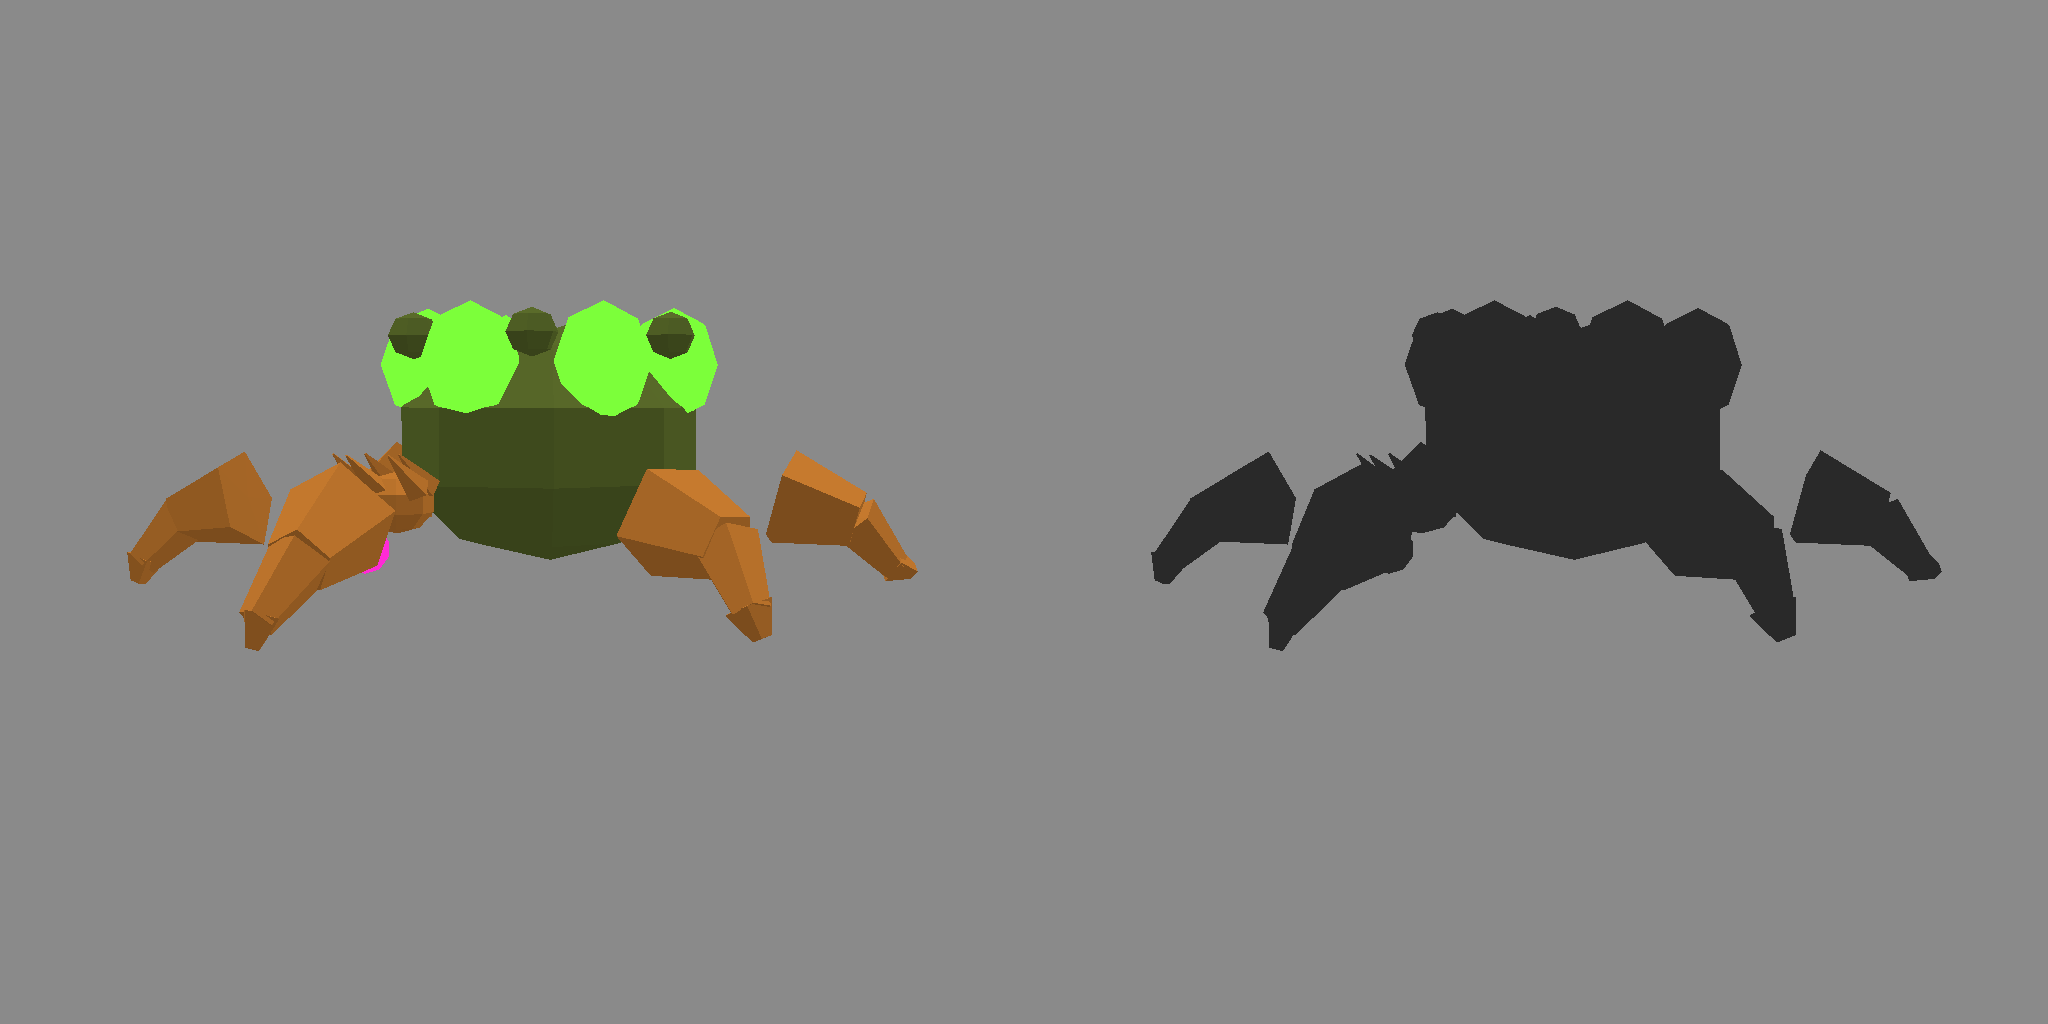
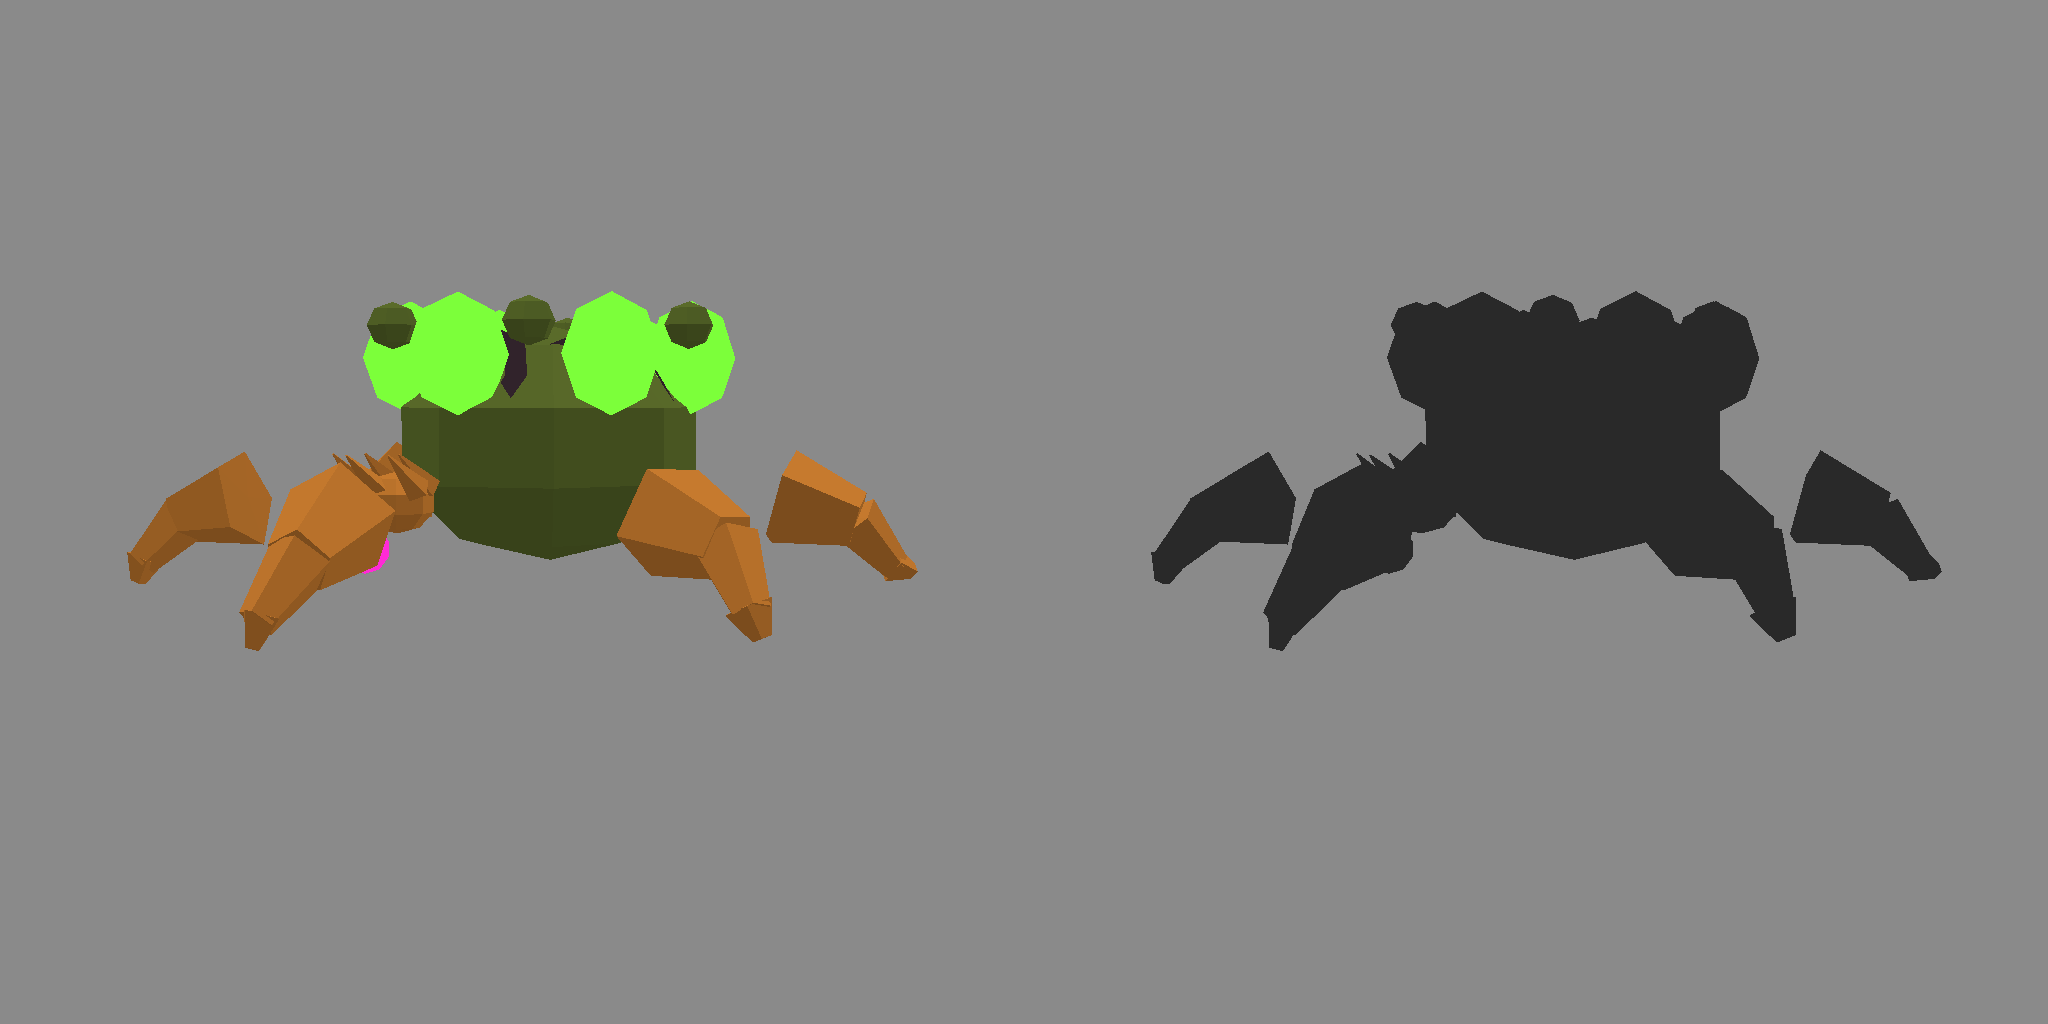
Seat each brood pod on its hitbox anchor and add a top-down still.
Six glowing pods and six visual buds alternate around the sac. The mesh test checks those counts and that each pod hitbox shares that pod's anchor. bugshots now writes brood_mother_top.png.

diff --git a/crates/meshes/src/lib.rs b/crates/meshes/src/lib.rs
@@ -8,8 +8,8 @@ mod visual;
 
 pub use pose::{pose, AnimInput, Pose, Xform};
 pub use preview::{
-    missing_glow_keys, missing_glow_keys_open, painted_pixels, raster, raster_bug, raster_crown, raster_viewmodel, still, still_open,
-    ViewmodelFrame,
+    missing_glow_keys, missing_glow_keys_open, painted_pixels, raster, raster_bug, raster_crown, raster_top, raster_viewmodel, still,
+    still_open, still_top, ViewmodelFrame,
 };
 pub use visual::{bug, catalog, flat_shaded, EnemyVisual, Gate, Joint, Part, ShotCamera};
 
@@ -591,6 +591,80 @@ mod tests {
         let a = bug("swarmer") as *const EnemyVisual;
         let b = bug("swarmer") as *const EnemyVisual;
         assert_eq!(a, b);
+    }
+
+    #[test]
+    fn brood_pods_alternate_with_buds_and_sit_on_hitboxes() {
+        let content = gemini_sim::Content::embedded();
+        let boss = content.boss("brood_mother").expect("brood mother");
+        let visual = bug("brood_mother");
+        let row = content.bug(gemini_sim::content::EnemyKind::BroodMother);
+        let glowing: Vec<_> = visual
+            .parts
+            .iter()
+            .filter(|part| part.emissive && part.name.starts_with("pod"))
+            .collect();
+        assert_eq!(
+            glowing.len() as u32, boss.pod_count,
+            "glowing pod parts must match bosses.toml pod_count"
+        );
+        let authored_buds = row
+            .visual
+            .parts
+            .iter()
+            .find(|part| part.name == "bud")
+            .expect("visual bud row")
+            .count;
+        let buds: Vec<_> = visual.parts.iter().filter(|part| part.name.starts_with("bud")).collect();
+        assert_eq!(buds.len() as u32, authored_buds, "bud parts must match the visual bud count");
+        assert!(buds.iter().all(|part| !part.emissive), "buds stay visual-only");
+
+        assert_eq!(row.hitbox.pods.len(), glowing.len());
+        for (i, place) in row.hitbox.pods.iter().enumerate() {
+            let part = visual
+                .parts
+                .iter()
+                .find(|part| part.name == format!("pod{i}"))
+                .unwrap_or_else(|| panic!("missing pod{i}"));
+            assert_eq!(part.pod_slot, Some(i as u32));
+            let anchor = part.rest_pos;
+            let hit = place.offset;
+            let d = ((anchor[0] - hit[0]).powi(2) + (anchor[1] - hit[1]).powi(2) + (anchor[2] - hit[2]).powi(2)).sqrt();
+            assert!(
+                d < 1e-3,
+                "pod{i} hitbox {hit:?} is off its mesh anchor {anchor:?} by {d}"
+            );
+        }
+
+        let sac = visual.parts.iter().find(|part| part.name == "sac").expect("sac").rest_pos;
+        let mut ring = Vec::new();
+        for part in visual.parts.iter() {
+            let live = part.emissive && part.name.starts_with("pod");
+            let bud = part.name.starts_with("bud");
+            if !live && !bud {
+                continue;
+            }
+            let dx = part.rest_pos[0] - sac[0];
+            let dz = part.rest_pos[2] - sac[2];
+            ring.push((dz.atan2(dx), live));
+        }
+        ring.sort_by(|a, b| a.0.partial_cmp(&b.0).unwrap());
+        assert_eq!(ring.len(), glowing.len() + buds.len());
+        for pair in ring.windows(2) {
+            assert_ne!(pair[0].1, pair[1].1, "pods and buds must alternate around the sac");
+            assert!(pair[1].0 - pair[0].0 > 0.2, "ring gap {}", pair[1].0 - pair[0].0);
+        }
+        assert_ne!(ring.first().unwrap().1, ring.last().unwrap().1);
+
+        let pod = visual.parts.iter().find(|part| part.name == "pod0").unwrap();
+        let mesh_r = mesh_radius(&pod.mesh);
+        let hit_r = row.hitbox.pod_radius();
+        assert!(
+            hit_r + 1e-3 >= mesh_r * content.bugs.hitbox_margin,
+            "pod hitbox {hit_r:.3} < mesh {mesh_r:.3} * {}",
+            content.bugs.hitbox_margin
+        );
+        eprintln!("pod mesh radius {mesh_r:.4} hitbox radius {hit_r:.4}");
     }
 
     #[test]

diff --git a/crates/meshes/src/visual.rs b/crates/meshes/src/visual.rs
@@ -304,7 +304,7 @@ fn req2(id: &str, part: &str, field: &str, value: Option<&[f32]>) -> Result<[f32
 
 fn add_body_part(parts: &mut Vec<Part>, id: &str, spec: &VPart, dens: &Dens, catalog: &[VPart]) -> Result<(), String> {
     match spec.part.as_str() {
-        "pod" | "bud" => return add_sac_orbs(parts, id, spec, dens),
+        "pod" | "bud" => return add_sac_orbs(parts, id, spec, dens, catalog),
         "crown" => return add_crown(parts, id, spec, dens),
         "cannon" => return add_cannon(parts, id, spec, dens, catalog),
         _ => {}
@@ -833,7 +833,7 @@ fn add_cannon(parts: &mut Vec<Part>, id: &str, spec: &VPart, dens: &Dens, catalo
     Ok(())
 }
 
-fn add_sac_orbs(parts: &mut Vec<Part>, id: &str, spec: &VPart, dens: &Dens) -> Result<(), String> {
+fn add_sac_orbs(parts: &mut Vec<Part>, id: &str, spec: &VPart, dens: &Dens, catalog: &[VPart]) -> Result<(), String> {
     let nestled = spec.part == "bud";
     if spec.ring_radius <= 0.0 {
         return Err(format!("{id} {} is missing ring_radius", spec.name));
@@ -863,7 +863,16 @@ fn add_sac_orbs(parts: &mut Vec<Part>, id: &str, spec: &VPart, dens: &Dens) -> R
         Dens { slices: 6, stacks: 4, ..Dens::small() }
     };
     let mesh = Arc::new(gem_mesh([size[0] * 0.5, size[1] * 0.5, size[2] * 0.5], &detail));
-    let (center, radii) = sac_anchor_from(id, parts)?;
+    // Same ellipsoid as the sim pod bake: authored host half-extents, not the
+    // faceted sac mesh. Pods and buds share that ring and alternate by phase.
+    let host_name = spec.on.as_deref().ok_or_else(|| format!("{id} {} is missing on", spec.name))?;
+    let host = catalog
+        .iter()
+        .find(|part| part.name == host_name)
+        .ok_or_else(|| format!("{id} {} host \"{host_name}\" is missing", spec.name))?;
+    let host_size = size3(id, host)?;
+    let radii = [host_size[0] * 0.5, host_size[1] * 0.5, host_size[2] * 0.5];
+    let center = host.offset;
     for i in 0..count {
         let a = (i as f32 + phase) / count as f32 * std::f32::consts::TAU + turn;
         let ring = spec.ring_radius;
@@ -1084,23 +1093,6 @@ fn add_veins(parts: &mut Vec<Part>, id: &str, spec: &VPart) -> Result<(), String
         });
     }
     Ok(())
-}
-
-fn sac_anchor_from(id: &str, parts: &[Part]) -> Result<([f32; 3], [f32; 3]), String> {
-    let sac = parts
-        .iter()
-        .find(|p| p.name == "sac")
-        .ok_or_else(|| format!("{id} pod ring has no sac"))?;
-    let mut max = [0.0_f32, 0.0, 0.0];
-    for p in &sac.mesh.positions {
-        max[0] = max[0].max(p[0].abs());
-        max[1] = max[1].max(p[1].abs());
-        max[2] = max[2].max(p[2].abs());
-    }
-    if max[0] <= 0.0 || max[1] <= 0.0 || max[2] <= 0.0 {
-        return Err(format!("{id} sac has no extent"));
-    }
-    Ok((sac.rest_pos, [max[0] * 0.92, max[1] * 0.92, max[2] * 0.92]))
 }
 
 /// Round shell. Dorsal plates are a sibling mesh so the open pose can spread them.

diff --git a/crates/meshes/src/preview.rs b/crates/meshes/src/preview.rs
@@ -58,6 +58,24 @@ pub fn still_open(id: &str, panel: u32) -> (u32, u32, Vec<u8>) {
     compose(id, panel, true, cam)
 }
 
+/// Overhead camera. The eye sits on +Y so the ring of pods reads in plan.
+pub fn top_camera(id: &str) -> ([f32; 3], [f32; 3], f32) {
+    let h = bug(id).height;
+    ([0.0, h * 5.4, 0.05], [0.0, h * 0.5, -0.2], 36.0)
+}
+
+/// Color raster from directly above.
+pub fn raster_top(id: &str, width: u32, height: u32) -> Vec<u8> {
+    let visual = bug(id);
+    let palette = palette_of();
+    draw(visual, &palette, width, height, false, false, Some(top_camera(id)))
+}
+
+/// Color panel plus silhouette, from directly above.
+pub fn still_top(id: &str, panel: u32) -> (u32, u32, Vec<u8>) {
+    compose(id, panel, false, Some(top_camera(id)))
+}
+
 /// Inputs for a first-person still. Offset and FOV come from the hero row.
 #[derive(Clone, Copy, Debug)]
 pub struct ViewmodelFrame {
@@ -261,7 +279,13 @@ fn draw(
     let posed = pose(visual, anim, &[]);
     let (eye, target, fov_deg) = camera.unwrap_or((visual.camera.eye, visual.camera.target, visual.camera.fov));
     let forward = norm(sub(target, eye));
-    let right = norm(cross(forward, [0.0, 1.0, 0.0]));
+    // A straight-down eye is parallel to world up, so plan views use +Z as the hint.
+    let hint = if forward[1].abs() > 0.92 {
+        [0.0, 0.0, 1.0]
+    } else {
+        [0.0, 1.0, 0.0]
+    };
+    let right = norm(cross(forward, hint));
     let up = cross(right, forward);
     let key = norm([-0.2, 0.92, 0.28]);
     let fill = norm([0.55, 0.35, -0.45]);

diff --git a/crates/meshes/src/bin/bugshots.rs b/crates/meshes/src/bin/bugshots.rs
@@ -11,7 +11,9 @@ use std::fs;
 use std::io::Write;
 use std::process::{Command, Stdio};
 
-use gemini_meshes::{catalog, missing_glow_keys, missing_glow_keys_open, painted_pixels, raster_bug, still, still_open};
+use gemini_meshes::{
+    catalog, missing_glow_keys, missing_glow_keys_open, painted_pixels, raster_bug, raster_top, still, still_open, still_top,
+};
 
 fn main() {
     let mut out = "art/bugs".to_string();
@@ -39,6 +41,19 @@ fn main() {
         let path = format!("{out}/{id}.png");
         write_png(&path, w, h, &rgb);
         println!("wrote {path} ({painted} px)");
+        if id == "brood_mother" {
+            let (tw, th, top) = still_top(id, panel);
+            let top_color = raster_top(id, panel, panel);
+            let top_painted = painted_pixels(&top_color);
+            let top_missing = missing_glow_keys(id, &top_color);
+            if top_painted < 800 || !top_missing.is_empty() {
+                eprintln!("{id} top still failed ({top_painted} px, missing glow {top_missing:?})");
+                failed = true;
+            }
+            let top_path = format!("{out}/{id}_top.png");
+            write_png(&top_path, tw, th, &top);
+            println!("wrote {top_path} ({top_painted} px)");
+        }
     }
     for visual in catalog() {
         if visual.camera_open.is_none() {

diff --git a/crates/sim/src/bugs.rs b/crates/sim/src/bugs.rs
@@ -472,8 +472,9 @@ fn bake_pods(bug: &str, visual: &BugVisual, hitbox: &mut BugHitbox) -> Result<()
     let floor = pod.ny_floor.ok_or_else(|| format!("{bug} visual pod is missing ny_floor"))?;
     let radii = [ext[0] * 0.5, ext[1] * 0.5, ext[2] * 0.5];
     let count = pod.count;
+    let phase = pod.ring_phase.unwrap_or(0.0);
     for i in 0..count {
-        let a = i as f32 / count as f32 * std::f32::consts::TAU + turn;
+        let a = (i as f32 + phase) / count as f32 * std::f32::consts::TAU + turn;
         let nx = a.cos() * pod.ring_radius;
         let nz = a.sin() * pod.ring_radius;
         let ny = (1.0 - nx * nx - nz * nz).max(floor).sqrt();
